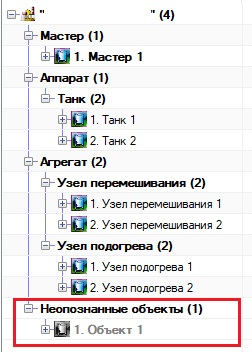
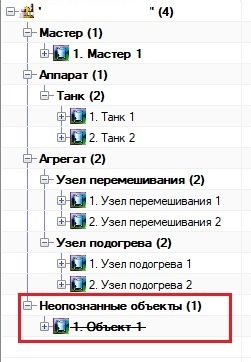
[doc] Updated documentation

Changed region(s): [[0.0, 0.0, 0.9761, 1.0], [0.5857, 0.0, 0.6972, 0.0625]]

diff --git a/docs/user_manual/ReadMe.md b/docs/user_manual/ReadMe.md
@@ -904,7 +904,7 @@ F | **IO-Link** автоматический выключатель
 
 <p align="justify">Неопознанный объект может им и оставаться. Но над ним нельзя выполнять никаких действий, кроме как: "<b>Удалить</b>", "<b>Вырезать</b> и "<b>Редактировать</b>". Если не переносить базовый объект в другие объекты, то он будет сохраняться как неопознанный объект. То есть, этот объект остается объектом, но его нельзя никуда копировать (только через вырезку) и новые неопознанные объекты также нельзя добавлять.</p>
 
-<p align="justify">Вырезать объект можно с помощью сочетания клавиш <b>Ctrl + X</b>. После вырезки, объект станет неактивным (<em>будет выделен серым цветом и его нельзя будет выделить</em>). Для того, чтобы отменить вырезку, нужно нажать клавишу <b>Esc</b> при любом активном элементе дерева.</p>
+<p align="justify">Вырезать объект можно с помощью сочетания клавиш <b>Ctrl + X</b>. После вырезки, объект станет перечеркнутым (<em>будет перечеркнут текст, но объект останется активным</em>). Для того, чтобы отменить вырезку, нужно нажать клавишу <b>Esc</b> при любом активном элементе дерева.</p>
 
 <p align="center"><img src="images/NewEditor/unidentifiedDisabledObject.jpg"></p>
 
